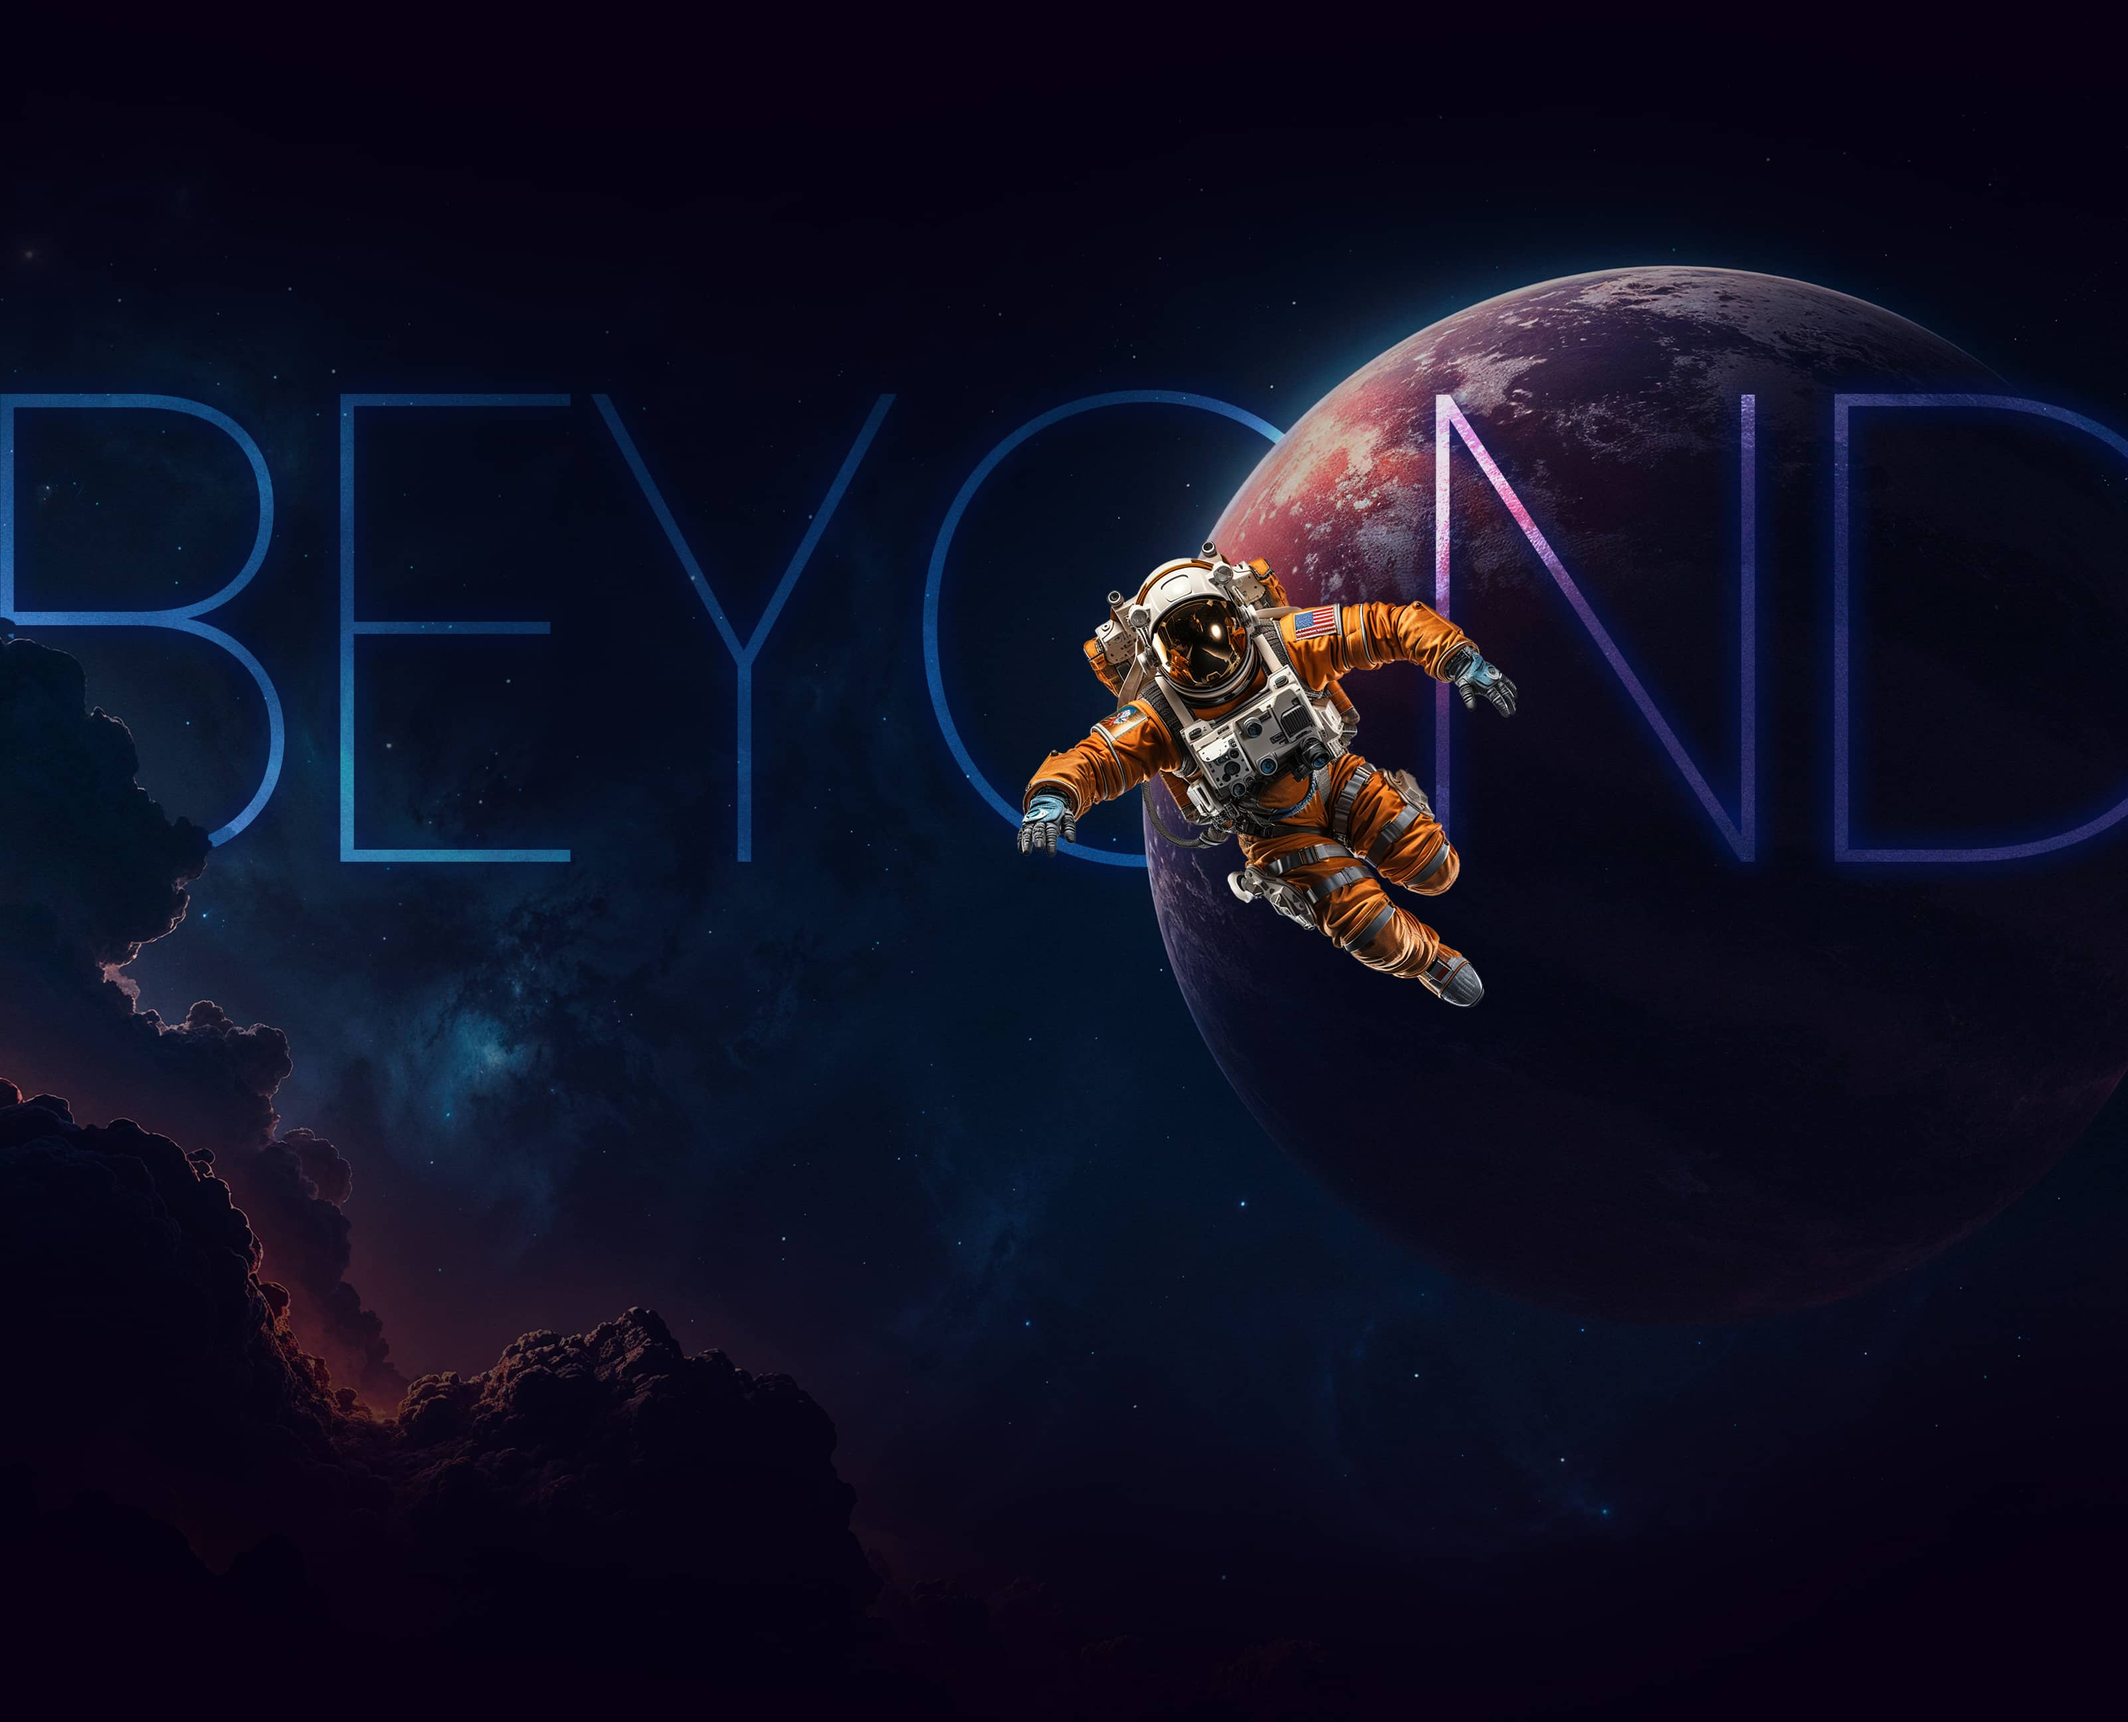
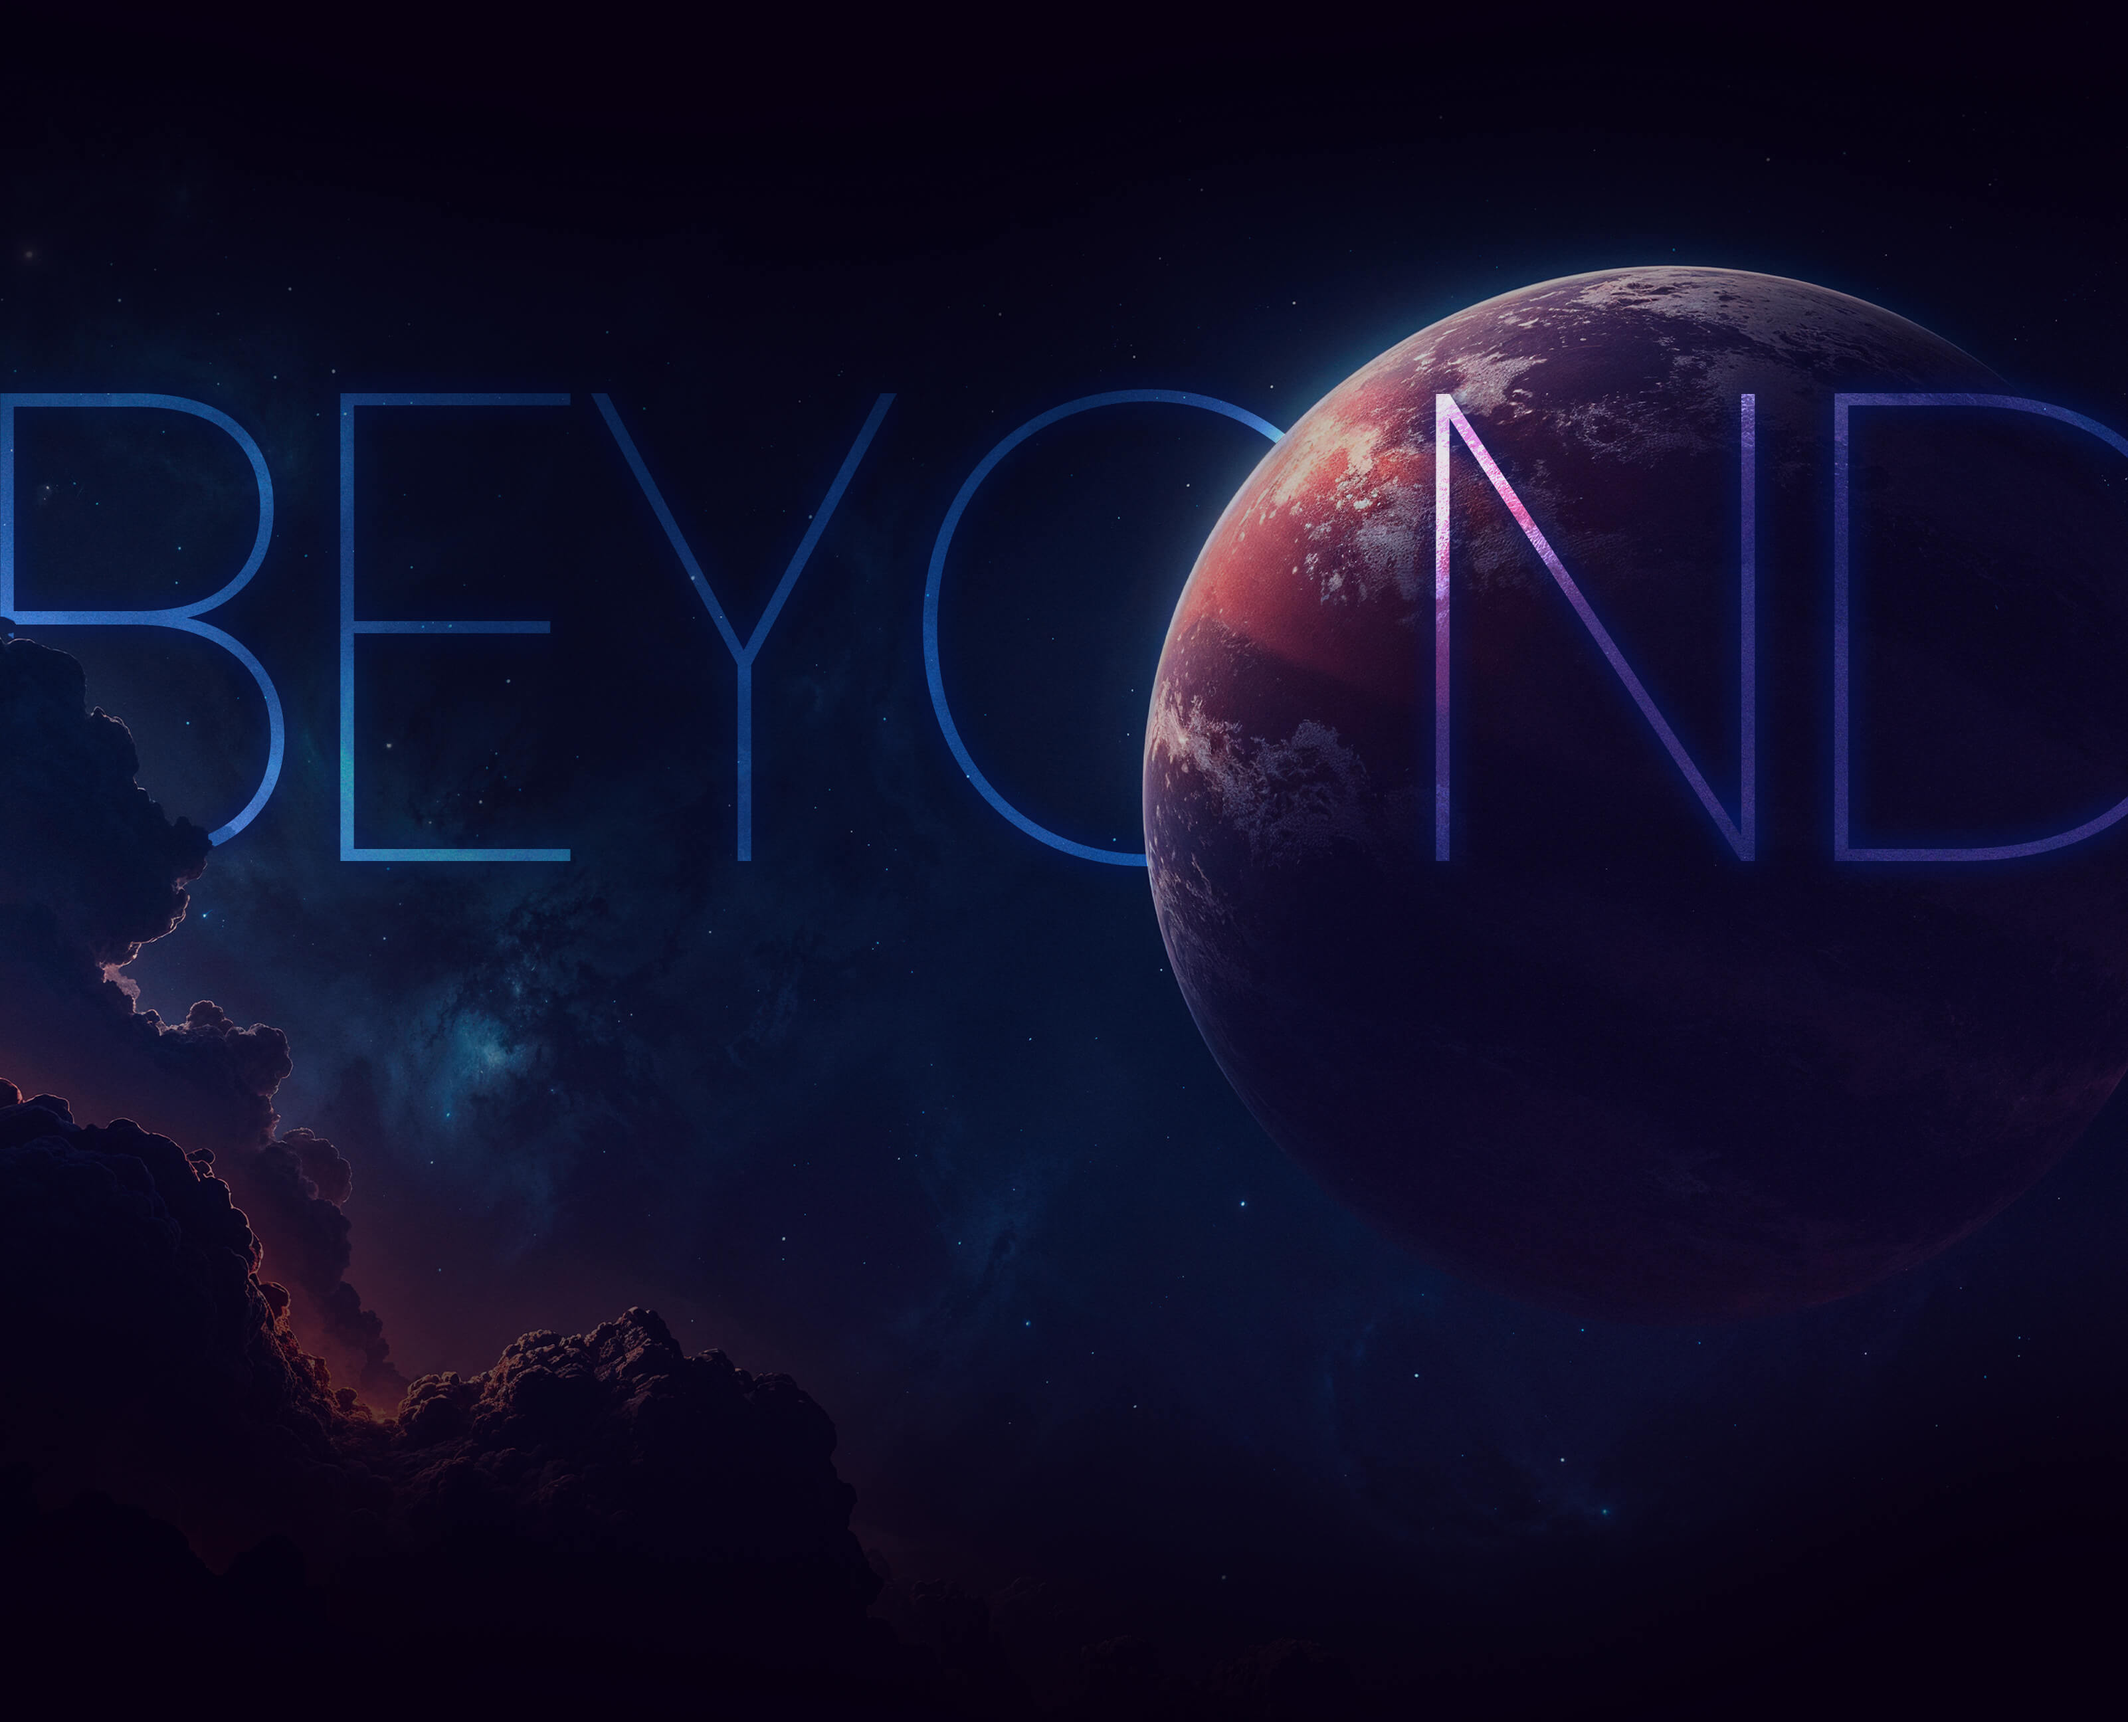
Added motion on about us astronaut

Changed region(s): [[0.4683, 0.3125, 0.7181, 0.5938], [0.6869, 0.25, 0.7181, 0.3125]]

diff --git a/src/containers/About.js b/src/containers/About.js
@@ -1,6 +1,7 @@
-import React from "react";
+import React, { useRef } from "react";
 import { Helmet } from 'react-helmet-async';
 import { Container, Grid2 as Grid } from "@mui/material";
+import { useScroll, useTransform, motion } from "framer-motion";
 import cx from "classnames";
 
 import { StarGradiantIcon } from "@/components/Icons";
@@ -14,6 +15,15 @@ import {
 import * as styles from "./About.module.scss";
 
 function About() {
+	const astronautImage = useRef(null);
+
+	const { scrollYProgress } = useScroll({
+		target: astronautImage,
+		offset: ['start end', 'end start']
+	});
+
+	const parallax = useTransform(scrollYProgress, [0, 1], [0, 90]);
+
 	return (
 		<>
 			<Helmet>
@@ -57,6 +67,16 @@ function About() {
 								<Heading className={cx(styles.textWhite, styles.extraLightText)}>Imagination.</Heading>
 							</Grid>
 							<Grid size={6} container spacing={3} className={styles.beyondInfoContent}>
+								<Grid size={12} ref={astronautImage}>
+									<motion.img
+										src={require("../assets/images/about-us/astronaut.png")}
+										alt=""
+										className={styles.astronautImage}
+										style={{
+											y: parallax,
+										}}
+									/>
+								</Grid>
 								<Grid size={12}>
 									<Heading variant="secondary" className={cx(styles.textWhite, styles.lightText)}>
 										We don’t just render— we venture into the unknown and deliver the extraordinary.

diff --git a/src/containers/About.module.scss b/src/containers/About.module.scss
@@ -77,7 +77,13 @@
 }
 
 .beyondInfoContent {
-	padding-top: 200px;
+	margin-top: -300px;
+}
+
+.astronautImage {
+	width: 70%;
+	margin-bottom: 80px;
+	margin-left: -60px;
 }
 
 .visionMissionSection {
